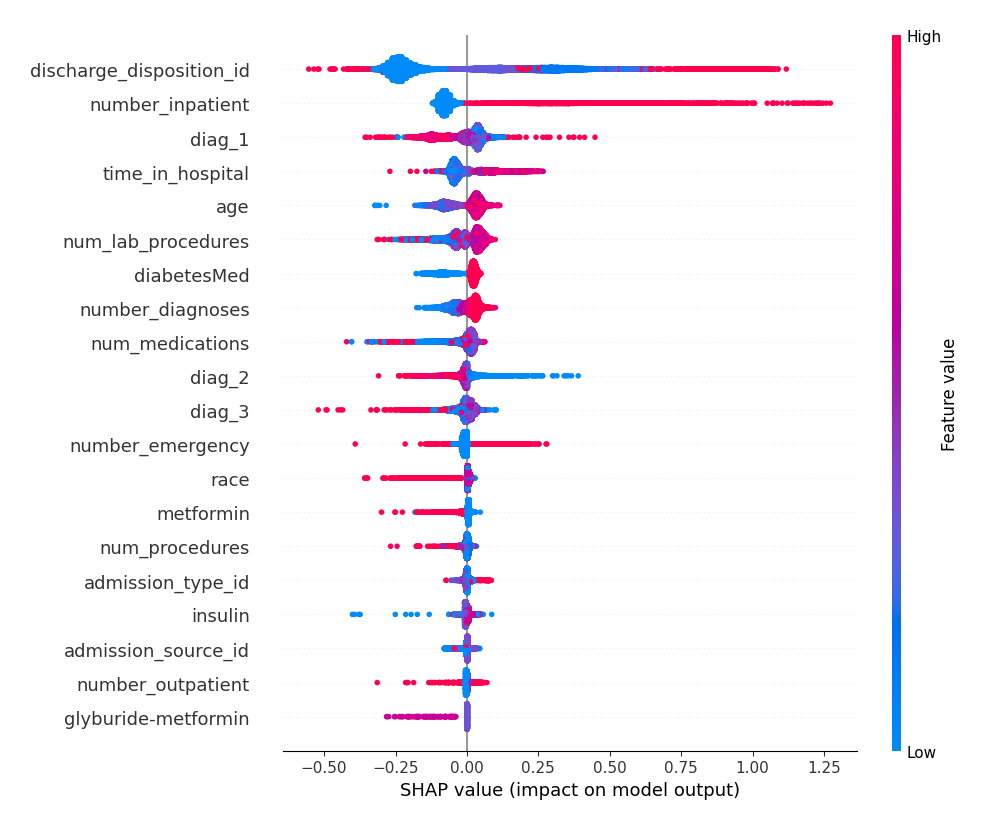
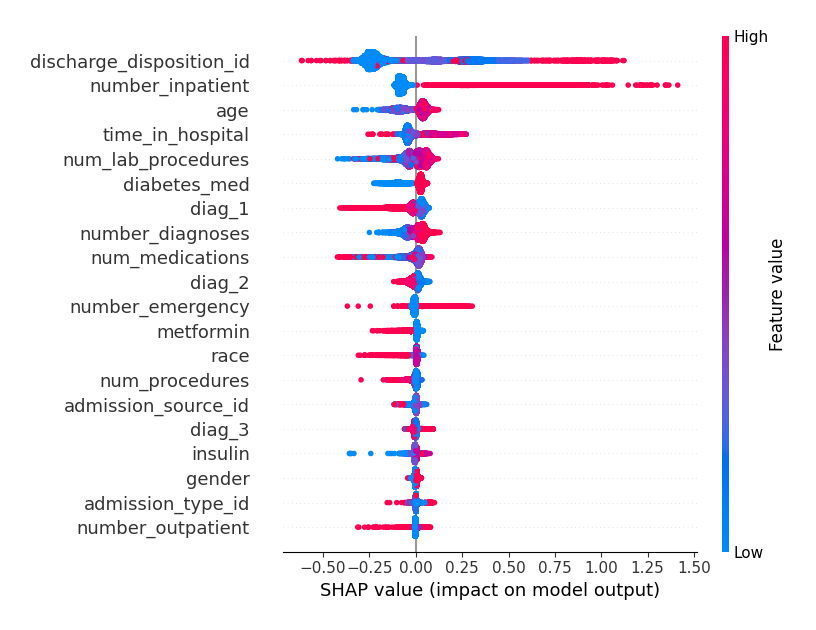
Resize SHAP values image

diff --git a/src/explainability.py b/src/explainability.py
@@ -22,7 +22,7 @@ def shap_explainer(model, X_test):
 
 
 if __name__ == "__main__":
-    with open('model', 'rb') as file:
+    with open('model.pkl', 'rb') as file:
         model = pickle.load(file)
 
     _, X_test, *_ = data_preprocessing()